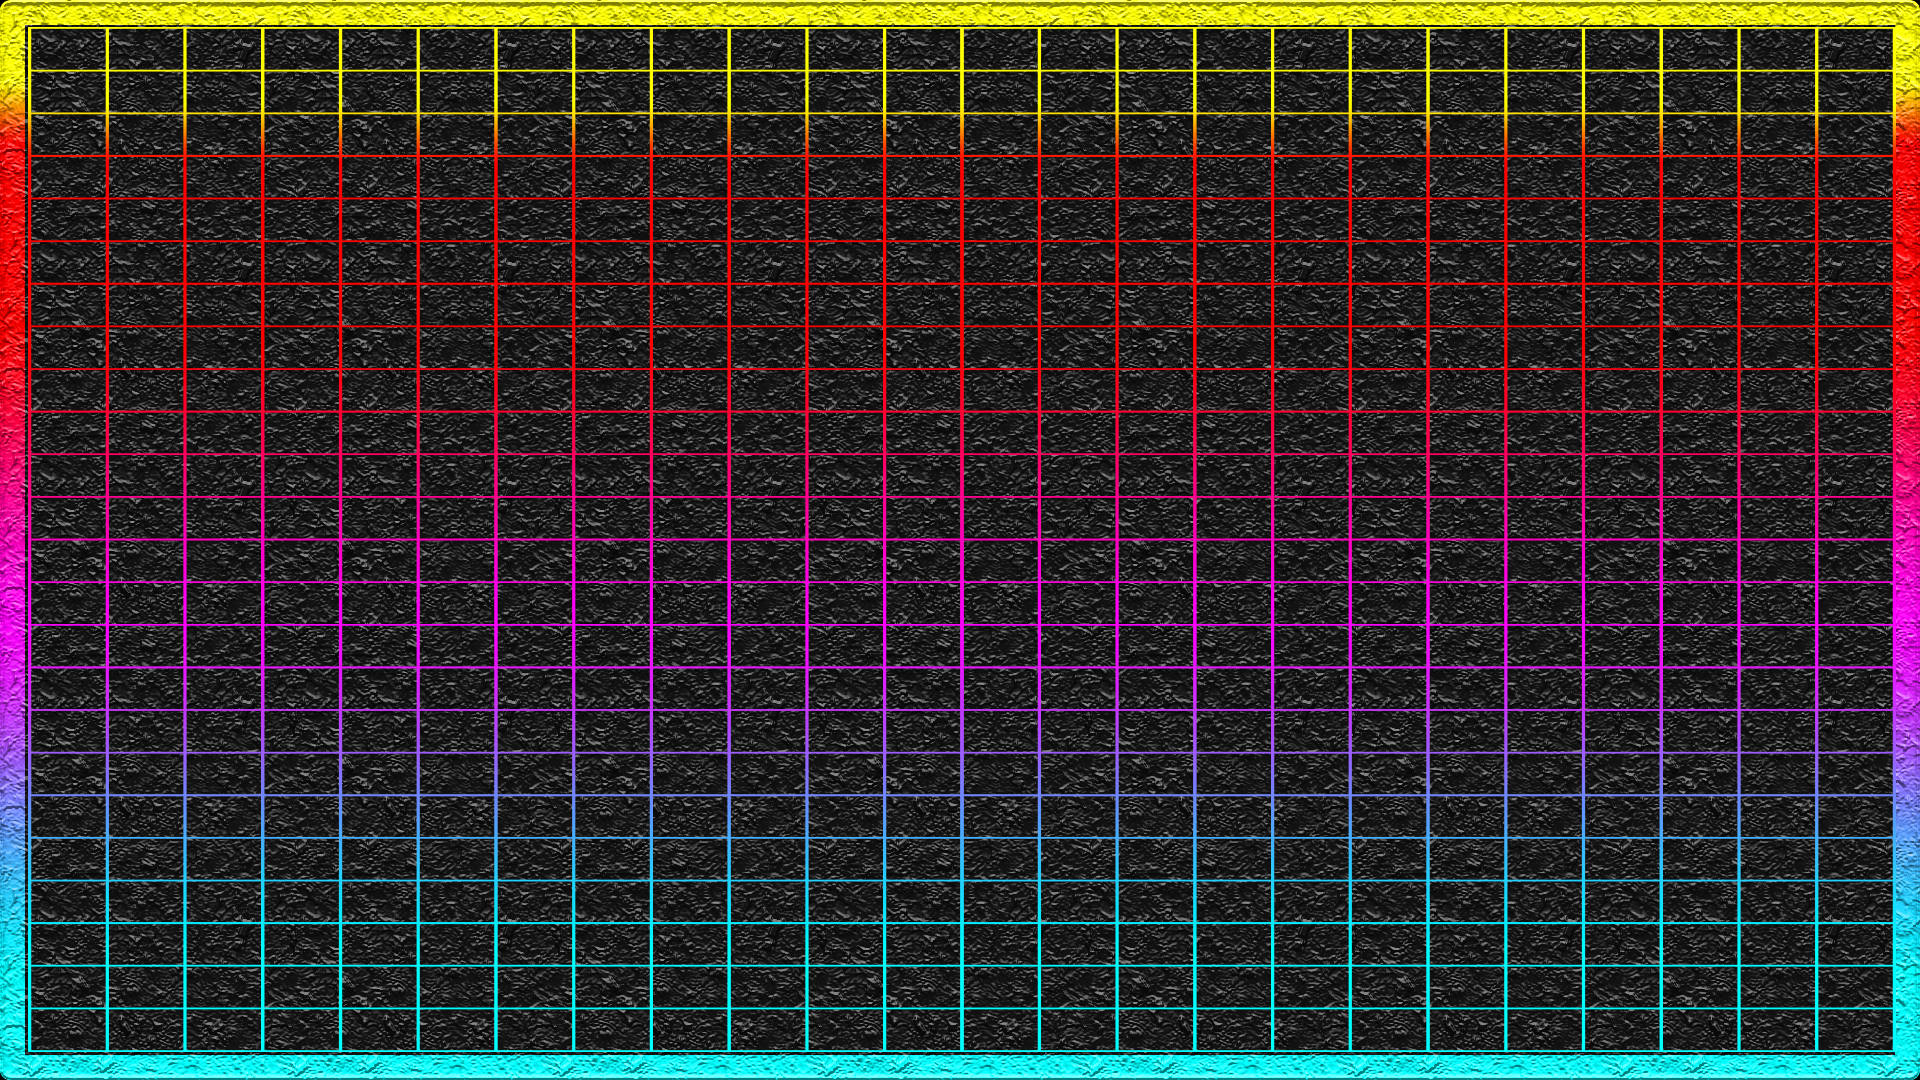
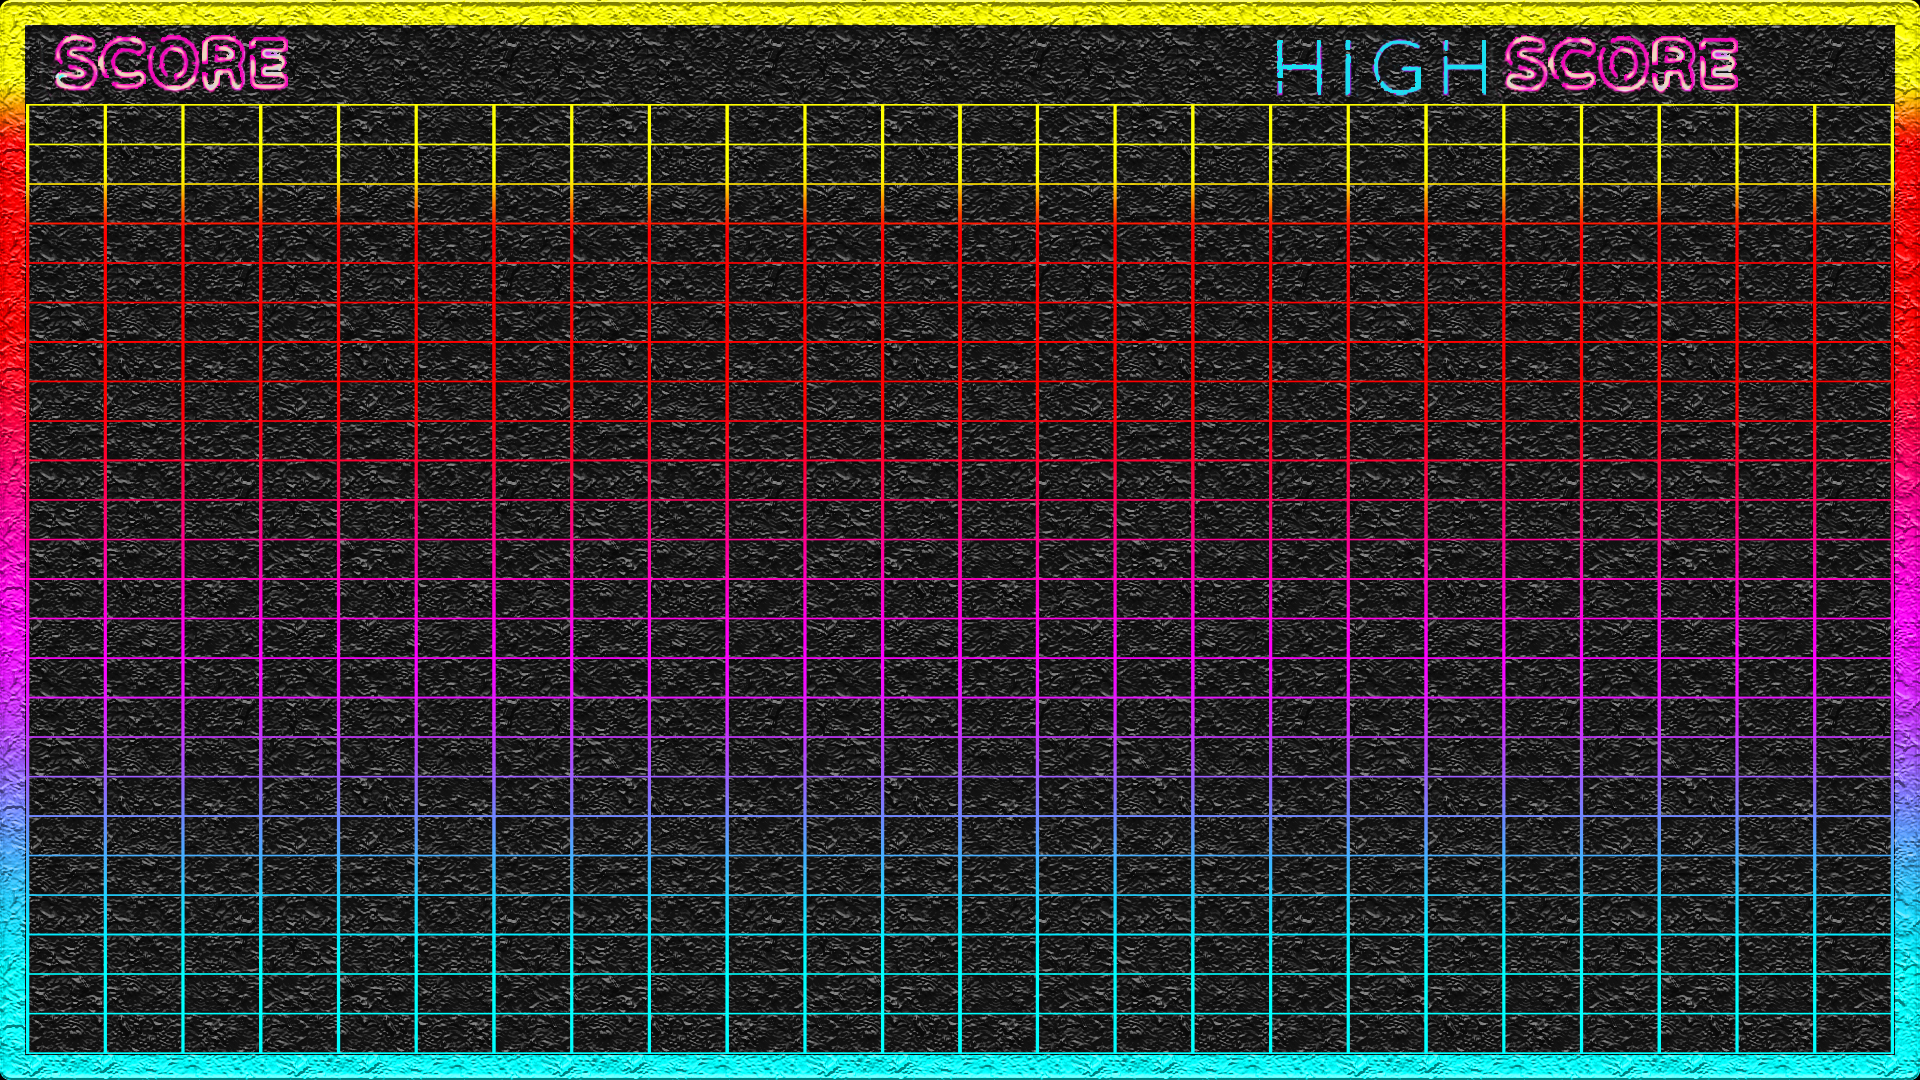
added score and highscore. Redrawed background

Changed region(s): [[0.0, 0.0306, 1.0, 0.9778]]

diff --git a/JavaScriptGameDev/NeonSnake/js/script.js b/JavaScriptGameDev/NeonSnake/js/script.js
@@ -22,19 +22,21 @@ const rightArrow = 39;
 const downArrow = 40;
 const box = 35;
 let snake = [];
-let d;
+let direction;
 let score = 0;
+let highscore = 0;
 let fruits = [apple,orange,cherry,strawberry,banana,pineapple];
 let randomFruit = fruits[Math.floor(Math.random() * fruits.length)];
 
 snake[0] = {
-	x: 10 * box,
+	x: 9 * box,
 	y: 10 * box
 };
 
+console.log(snake[0]);
 let food = {
-	x :Math.floor(Math.random()*50 + 1.5) * box,
-	y :Math.floor(Math.random()*21 + 1.5) * box
+	x :Math.floor(Math.random()*50) * box,
+	y :Math.floor(Math.random()*18) * box
 };
 console.log(food);
 
@@ -56,21 +58,21 @@ leftSound.src = "resources/sounds/left.mp3";
 rightSound.src = "resources/sounds/right.mp3";
 upSound.src = "resources/sounds/up.mp3";
 eatSound.src = "resources/sounds/eat.mp3";
-document.addEventListener("keydown" , direction);
+document.addEventListener("keydown" , controls);
 
-function direction(event) {
+function controls(event) {
 	let key = event.keyCode;
-	if (key == leftArrow && d != "RIGHT") {
-		d = "LEFT";
+	if (key == leftArrow && direction != "RIGHT") {
+		direction = "LEFT";
 		leftSound.play();
-	} else if (key == upArrow && d != "DOWN") {
-		d = "UP";
+	} else if (key == upArrow && direction != "DOWN") {
+		direction = "UP";
 		upSound.play();
-	} else if (key == rightArrow && d != "LEFT") {
-		d = "RIGHT";
+	} else if (key == rightArrow && direction != "LEFT") {
+		direction = "RIGHT";
 		rightSound.play();
-	} else if (key == downArrow && d != "UP") {
-		d = "DOWN";
+	} else if (key == downArrow && direction != "UP") {
+		direction = "DOWN";
 		downSound.play();
 	}
 }
@@ -86,7 +88,7 @@ function checkCollision(head,array){
 
 function draw() {
 	contex.drawImage(background,0,0,canvas.width,canvas.height);
-	contex.drawImage(randomFruit,food.x,food.y);
+	contex.drawImage(randomFruit,food.x,food.y,100,100);
 	for(let i = 0; i < snake.length; i++) {
 		if (i == 0) {
 			contex.drawImage(headSnake,snake[i].x,snake[i].y);
@@ -103,13 +105,14 @@ function draw() {
 	let snakeX = snake[0].x;
 	let snakeY = snake[0].y;
 
-	if (d == "LEFT") snakeX -= box;
-	if (d == "UP") snakeY -= box;
-	if (d == "RIGHT") snakeX += box;
-	if (d == "DOWN") snakeY += box;
+	if (direction == "LEFT") snakeX -= box;
+	if (direction == "UP") snakeY -= box;
+	if (direction == "RIGHT") snakeX += box;
+	if (direction == "DOWN") snakeY += box;
 
-		if (snakeX == food.x && snakeY == food.y) {
+	if (snakeX == food.x && snakeY == food.y) {
 		score++;
+
 		eatSound.play();
 		food = {
 			x :Math.floor(Math.random()*50 + 1.5) * box,
@@ -124,15 +127,34 @@ function draw() {
 		y : snakeY
 	}
 
-	if (snakeX < 0 || snakeX > box * 51 || snakeY < 0 || snakeY > box*24 || checkCollision(newHead,snake)) {
-		deadSound.play(); 
-		setTimeout(() => location.reload(), 300);
+	if (snakeX < 0 || snakeX > box * 51 || snakeY < box * 2 || snakeY > box*24 || checkCollision(newHead,snake)) {
+		deadSound.play();
+		clearInterval(game); 
+		setTimeout(() => location.reload(), 1000);
 	}
 	snake.unshift(newHead);
 
-	contex.fillStyle = "white";
-	contex.font = "45px Changa one";
-	contex.fillText(score,2*box, 1.6 * box);
+	drawScore();
+	drawHighScore();
+	saveHighScore();
 }
 
-setInterval(draw,100);
+function saveHighScore() {
+  if(score > highscore) {
+   highscore = score;
+  }
+}
+
+function drawScore() {
+	contex.fillStyle = "white";
+	contex.font = "60px Changa one";
+	contex.fillText(score, canvas.width / 6, canvas.height / 12);
+}
+
+function drawHighScore() {
+	contex.fillStyle = "white";
+	contex.font = "60px Changa one";
+	contex.fillText(highscore, canvas.width - canvas.width / 12, canvas.height / 12);
+}
+
+let game = setInterval(draw,100);
